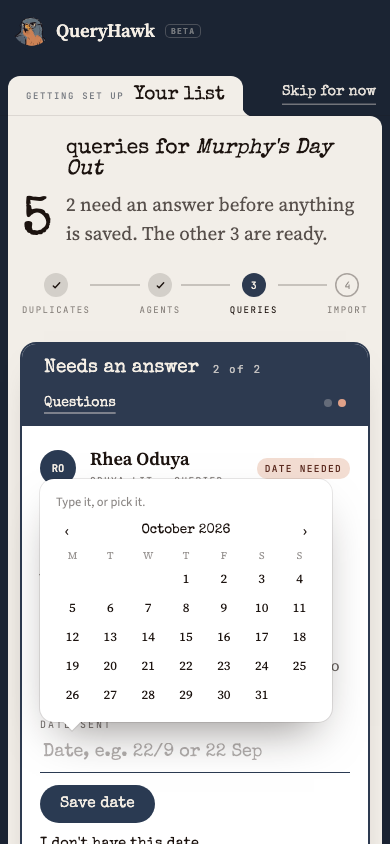
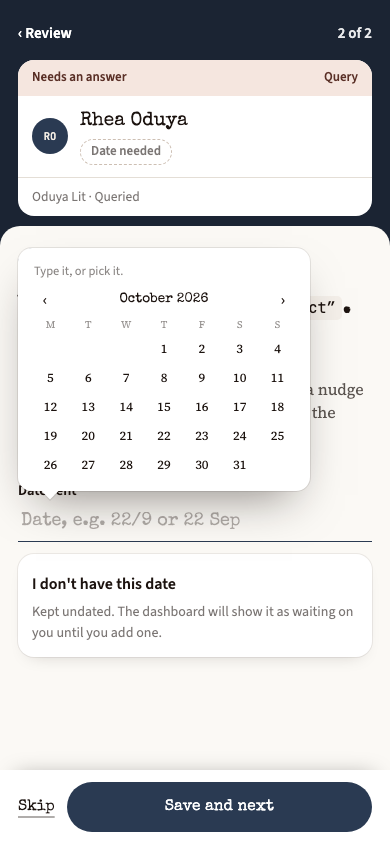
Smart Import v1.2: the screenshots from dev, and the phone walk answers Tom first

diff --git a/tests/e2e/importDatePick.measure.ts b/tests/e2e/importDatePick.measure.ts
@@ -38,8 +38,12 @@ async function toQueries(page: Page, vp = WIDE) {
 /** Rhea Oduya's card, "early Oct": on a phone behind "Answer this". */
 async function rhea(page: Page) {
   const answer = page.getByRole("button", { name: /^Answer this$/ });
-  if (await answer.count()) await answer.first().click();
-  else await showCard(page, "q-q4");
+  if (await answer.count()) {
+    /* a phone asks one question at a time: Tom's ✗ comes first, so answer it and the sheet moves on */
+    await answer.first().click();
+    const tom = page.locator('.o9-q[data-reason="mark-unclear"]:visible');
+    if (await tom.count()) await tom.first().locator('[data-status="Rejected"]').click();
+  } else await showCard(page, "q-q4");
   const c = page.locator('.o9-q[data-reason="no-date"]:visible').first();
   await c.waitFor();
   return c;
